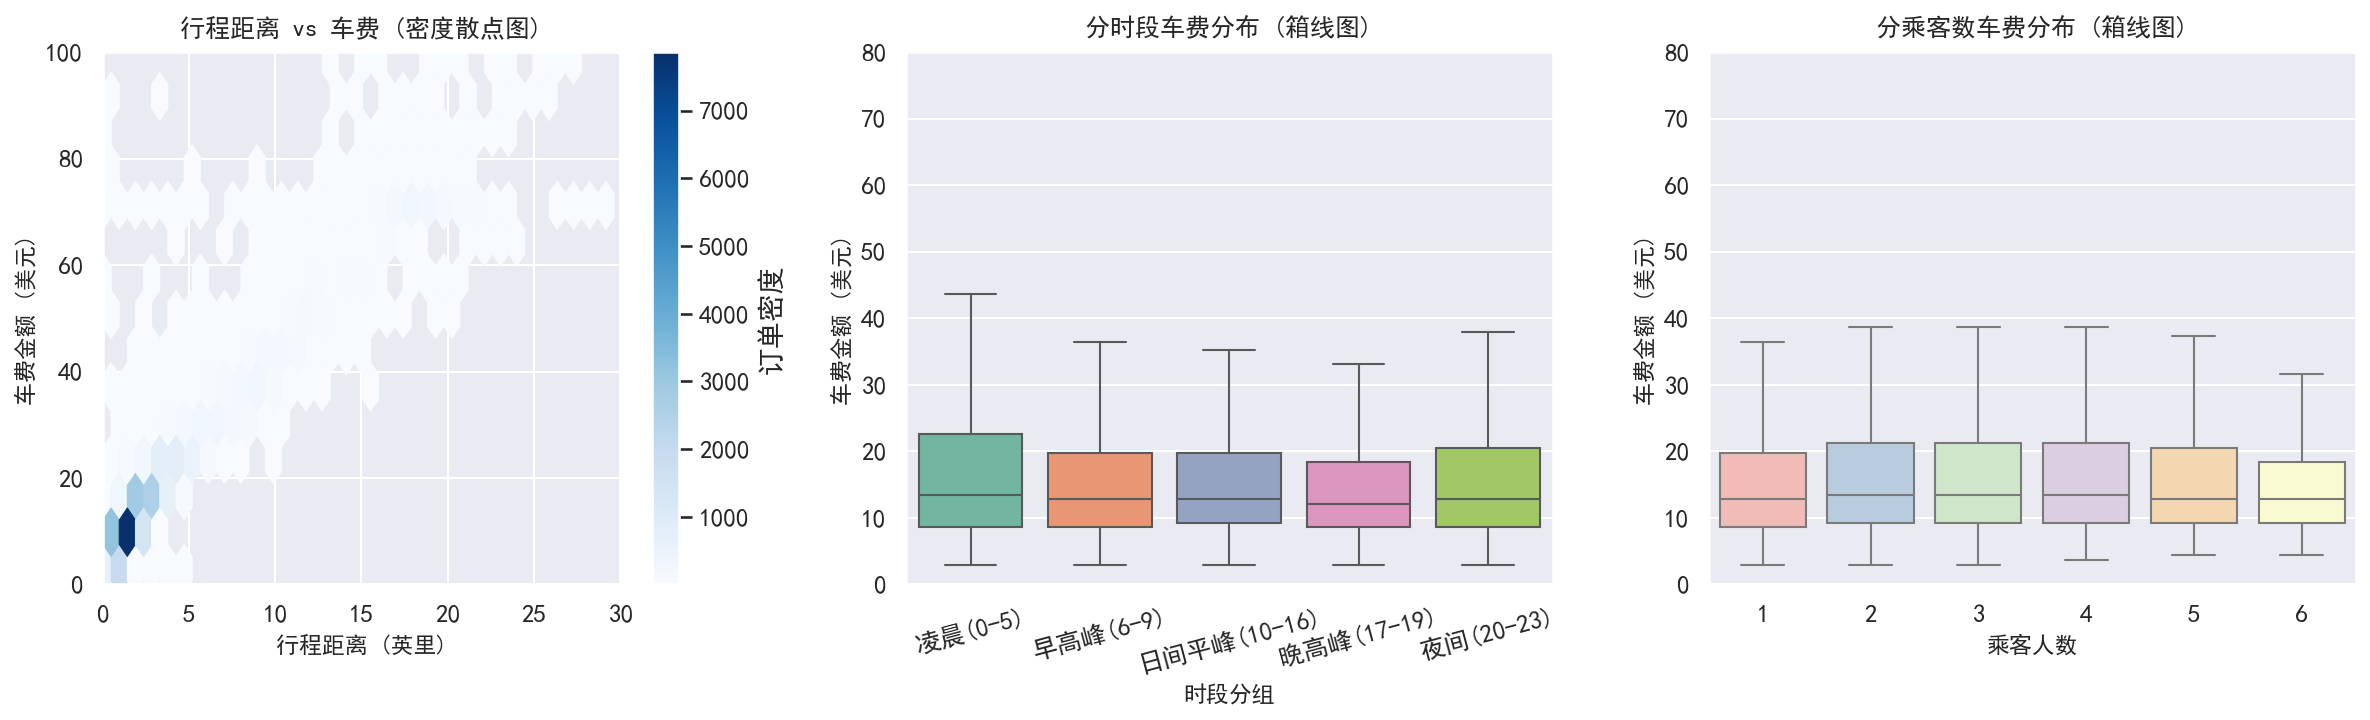
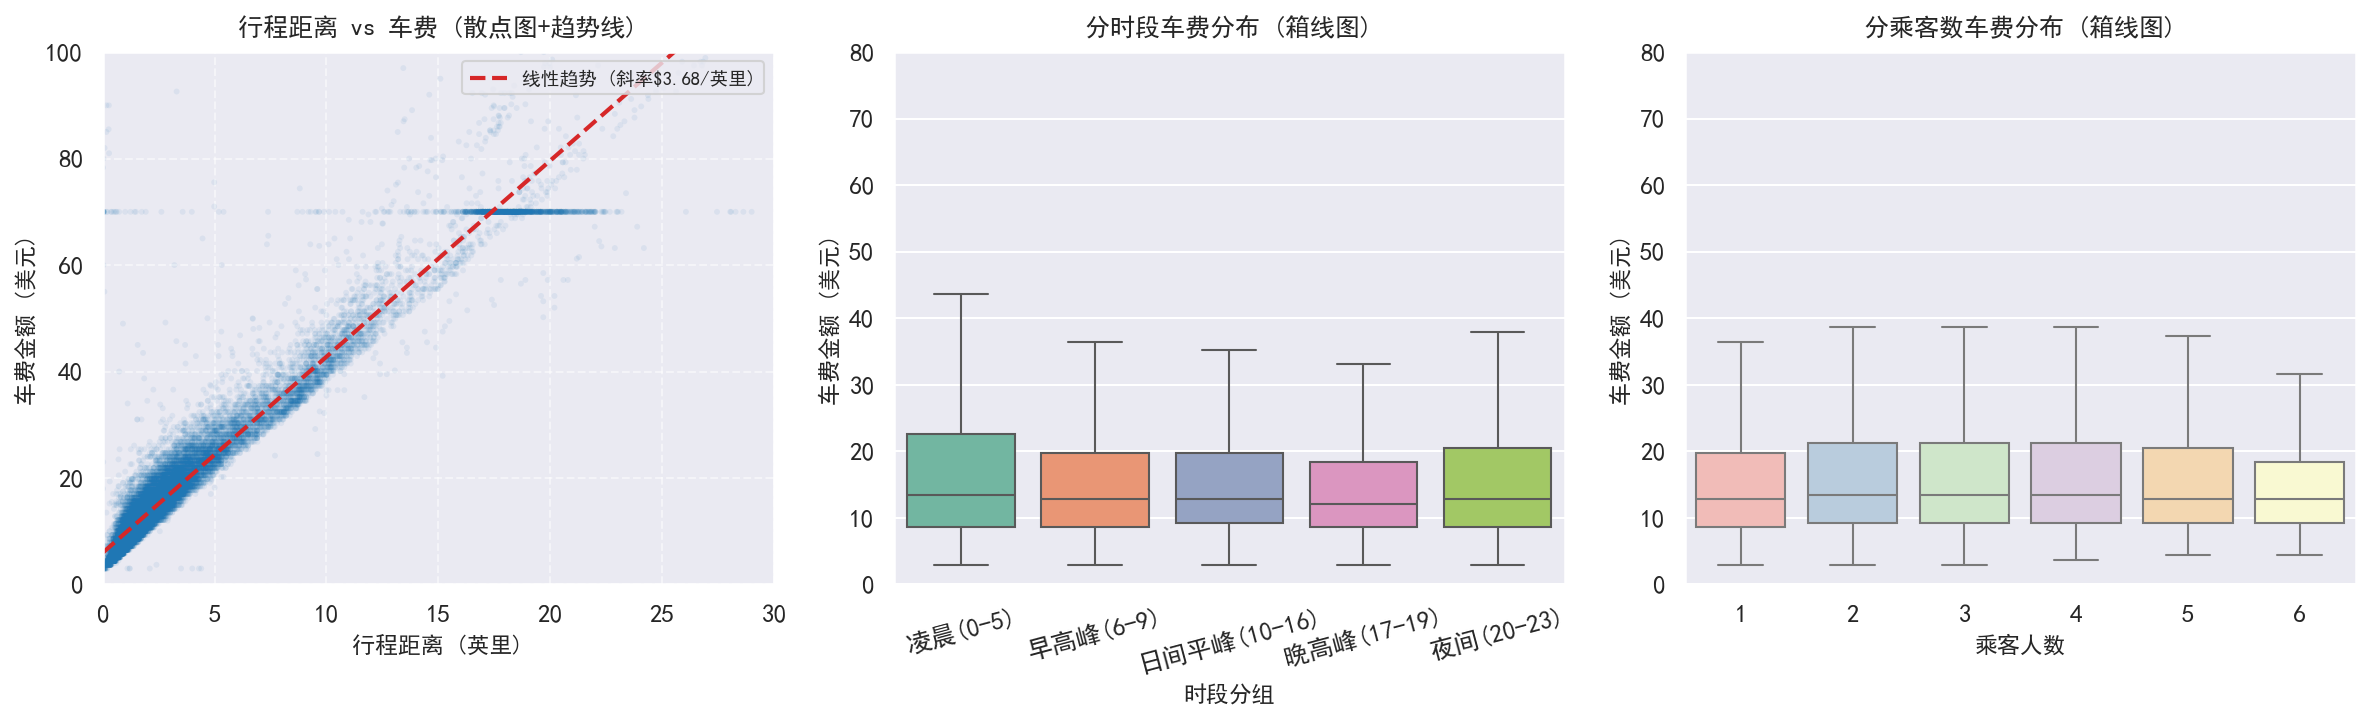
step 2.4: 完成自选洞察分析(小费行为)4

diff --git a/src/m2_analysis_vis.py b/src/m2_analysis_vis.py
@@ -2,7 +2,7 @@ import pandas as pd
 import matplotlib.pyplot as plt
 import seaborn as sns
 from pathlib import Path
-import os
+import numpy as np
 
 
 def setup_plotting():
@@ -133,22 +133,20 @@ def analyze_fare_factors(df: pd.DataFrame) -> dict:
     """
     print("[M2] 正在生成分析3：车费影响因素分析...")
 
-    #数据采样防重叠
+    # 数据采样防重叠
     df_sample = df.sample(frac=0.01, random_state=42).copy()
-
-    # 计算核心指标
     corr_dist_fare = df['trip_distance'].corr(df['fare_amount'])
 
     # 时段业务分组
     df_sample['time_period'] = pd.cut(
-        df_sample['pickup_hour'],
-        bins=[-1, 5, 9, 16, 19, 23],
+        df_sample['pickup_hour'], bins=[-1, 5, 9, 16, 19, 23],
         labels=['凌晨(0-5)', '早高峰(6-9)', '日间平峰(10-16)', '晚高峰(17-19)', '夜间(20-23)']
     )
 
     # 提取业务结论
     conclusion = (
-        f"行程距离与车费呈强正相关 (Pearson r={corr_dist_fare:.2f})，符合按程计价基础逻辑。"
+        f"【车费因素结论】行程距离与车费呈强正相关 (Pearson r={corr_dist_fare:.2f})。"
+        f"散点趋势线斜率约为 ${np.polyfit(df_sample['trip_distance'], df_sample['fare_amount'], 1)[0]:.2f}/英里，"
         f"从时段箱线图来看，晚高峰和夜间的车费整体水平及偏高段位都明显上升，反映了拥堵等候费和夜间附加费的影响。"
         f"而乘客数量对基础车费基本没有影响，这也印证了纽约出租车按车收费、不按人数收费的运营惯例。"
     )
@@ -156,19 +154,28 @@ def analyze_fare_factors(df: pd.DataFrame) -> dict:
     # 组合绘图
     fig, axes = plt.subplots(1, 3, figsize=(16, 5))
 
-    # 左图：距离-车费密度散点图
-    hb = axes[0].hexbin(df_sample['trip_distance'], df_sample['fare_amount'],
-                        gridsize=50, cmap='Blues', mincnt=1, linewidths=0.5)
-    fig.colorbar(hb, ax=axes[0], label='订单密度')
-    axes[0].set_title('行程距离 vs 车费 (密度散点图)', fontsize=12, pad=8)
+    # 左图：距离-车费透明度散点图 + 线性趋势线
+    axes[0].scatter(df_sample['trip_distance'], df_sample['fare_amount'],
+                    alpha=0.08, s=8, color='#1f77b4', edgecolors='none', rasterized=True)
+
+    # 计算并绘制线性趋势线
+    z = np.polyfit(df_sample['trip_distance'], df_sample['fare_amount'], 1)
+    p = np.poly1d(z)
+    x_trend = np.linspace(0, 30, 100)
+    axes[0].plot(x_trend, p(x_trend), color='#d62728', linewidth=2, linestyle='--',
+                 label=f'线性趋势 (斜率${z[0]:.2f}/英里)')
+
+    axes[0].set_title('行程距离 vs 车费 (散点图+趋势线)', fontsize=12, pad=8)
     axes[0].set_xlabel('行程距离 (英里)', fontsize=11)
     axes[0].set_ylabel('车费金额 (美元)', fontsize=11)
     axes[0].set_xlim(0, 30)
     axes[0].set_ylim(0, 100)
+    axes[0].legend(loc='upper right', fontsize=9)
+    axes[0].grid(True, linestyle='--', alpha=0.5)
 
     # 中图：分时段车费箱线图
-    sns.boxplot(x='time_period', y='fare_amount', hue='time_period', data=df_sample, ax=axes[1], palette='Set2',
-                legend=False, showfliers=False)
+    sns.boxplot(x='time_period', y='fare_amount', hue='time_period', data=df_sample,
+                ax=axes[1], palette='Set2', legend=False, showfliers=False)
     axes[1].set_title('分时段车费分布 (箱线图)', fontsize=12, pad=8)
     axes[1].set_xlabel('时段分组', fontsize=11)
     axes[1].set_ylabel('车费金额 (美元)', fontsize=11)
@@ -176,20 +183,77 @@ def analyze_fare_factors(df: pd.DataFrame) -> dict:
     axes[1].set_ylim(0, 80)
 
     # 右图：分乘客数车费箱线图
-    sns.boxplot(x='passenger_count', y='fare_amount', hue='passenger_count', data=df_sample, ax=axes[2],
-                palette='Pastel1', legend=False, showfliers=False)
+    sns.boxplot(x='passenger_count', y='fare_amount', hue='passenger_count', data=df_sample,
+                ax=axes[2], palette='Pastel1', legend=False, showfliers=False)
     axes[2].set_title('分乘客数车费分布 (箱线图)', fontsize=12, pad=8)
     axes[2].set_xlabel('乘客人数', fontsize=11)
     axes[2].set_ylabel('车费金额 (美元)', fontsize=11)
     axes[2].set_ylim(0, 80)
 
-    # 保存并返回结果
     plot_path = save_fig('M2_3_fare_factors.png')
     return {'conclusion': conclusion, 'plot_path': plot_path}
 
+
+def analyze_tipping_behavior(df: pd.DataFrame) -> dict:
+    """
+    分析4：小费行为与支付方式分析
+    """
+    print("[M2] 正在生成分析4：小费行为与支付方式洞察...")
+
+    # 业务过滤与特征构造
+    df_cc = df[df['payment_type'] == 1].copy()
+    # 限制小费比例在 0~50% 过滤极端系统错误，保留真实业务分布
+    df_cc['tip_ratio'] = (df_cc['tip_amount'] / df_cc['fare_amount']).clip(0, 0.5)
+
+    # 支付方式分布统计
+    pay_map = {1: '信用卡', 2: '现金', 3: '免单/纠纷', 4: '争议', 5: '未知', 0: 'Flex', 6: '作废'}
+    pay_dist = df['payment_type'].map(pay_map).value_counts()
+
+    # 分小时平均小费比例聚合
+    hourly_tip = df_cc.groupby('pickup_hour')['tip_ratio'].mean() * 100
+
+    # 提取业务结论
+    avg_tip = df_cc['tip_ratio'].mean() * 100
+    peak_tip_hour = hourly_tip.idxmax()
+    conclusion = (
+        f"信用卡订单平均小费比例为 {avg_tip:.1f}%。"
+        f"小费慷慨度在 {peak_tip_hour}:00 达到峰值，夜间(20-23点)小费比例普遍高于日间，"
+        f"反映娱乐/聚餐场景下的乘客支付意愿更强。支付方式高度集中于信用卡，体现纽约出租车电子化生态。"
+    )
+
+    # 组合绘图
+    fig, axes = plt.subplots(1, 2, figsize=(14, 5))
+
+    # 左图：支付方式订单占比
+    bars = axes[0].bar(pay_dist.index, pay_dist.values, color=sns.color_palette('Set3', len(pay_dist)),
+                       edgecolor='black', width=0.6)
+    axes[0].set_title('订单支付方式分布', fontsize=12, pad=8)
+    axes[0].set_xlabel('支付方式', fontsize=11)
+    axes[0].set_ylabel('订单量 (次)', fontsize=11)
+    axes[0].tick_params(axis='x', rotation=30)
+    # 添加柱顶数据标签
+    for bar in bars:
+        height = bar.get_height()
+        axes[0].text(bar.get_x() + bar.get_width() / 2, height, f'{height / 10000:.1f}万', ha='center', va='bottom',
+                     fontsize=9)
+
+    # 右图：分小时平均小费比例趋势
+    axes[1].plot(hourly_tip.index, hourly_tip.values, marker='s', linewidth=2, color='#d62728', markersize=6)
+    axes[1].fill_between(hourly_tip.index, hourly_tip.values, alpha=0.2, color='#d62728')
+    axes[1].set_title('分小时平均小费比例趋势 (仅信用卡)', fontsize=12, pad=8)
+    axes[1].set_xlabel('上车小时 (0-23)', fontsize=11)
+    axes[1].set_ylabel('平均小费比例 (%)', fontsize=11)
+    axes[1].set_xticks(range(24))
+    axes[1].grid(True, linestyle='--', alpha=0.5)
+    axes[1].set_ylim(0, hourly_tip.max() * 1.2)
+
+    plot_path = save_fig('M2_4_tipping_behavior.png')
+    return {'conclusion': conclusion, 'plot_path': plot_path}
+
+
 def run_m2(df: pd.DataFrame) -> dict:
     """
-    环境配置 → 分析1 → 分析2 → 分析3
+    环境配置 → 分析1 → 分析2 → 分析3 → 分析4
     """
     print("\n" + "=" * 50)
     print("启动 M2 分析可视化模块")
@@ -198,5 +262,6 @@ def run_m2(df: pd.DataFrame) -> dict:
     res_1 = analyze_temporal_pattern(df)
     res_2 = analyze_regional_heat(df)
     res_3 = analyze_fare_factors(df)
-    print("M2 阶段1~3执行完毕。\n")
-    return {'M2_1': res_1, 'M2_2': res_2, 'M2_3': res_3}
+    res_4 = analyze_tipping_behavior(df)
+    print("M2 模块全量执行完毕。\n")
+    return {'M2_1': res_1, 'M2_2': res_2, 'M2_3': res_3, 'M2_4': res_4}